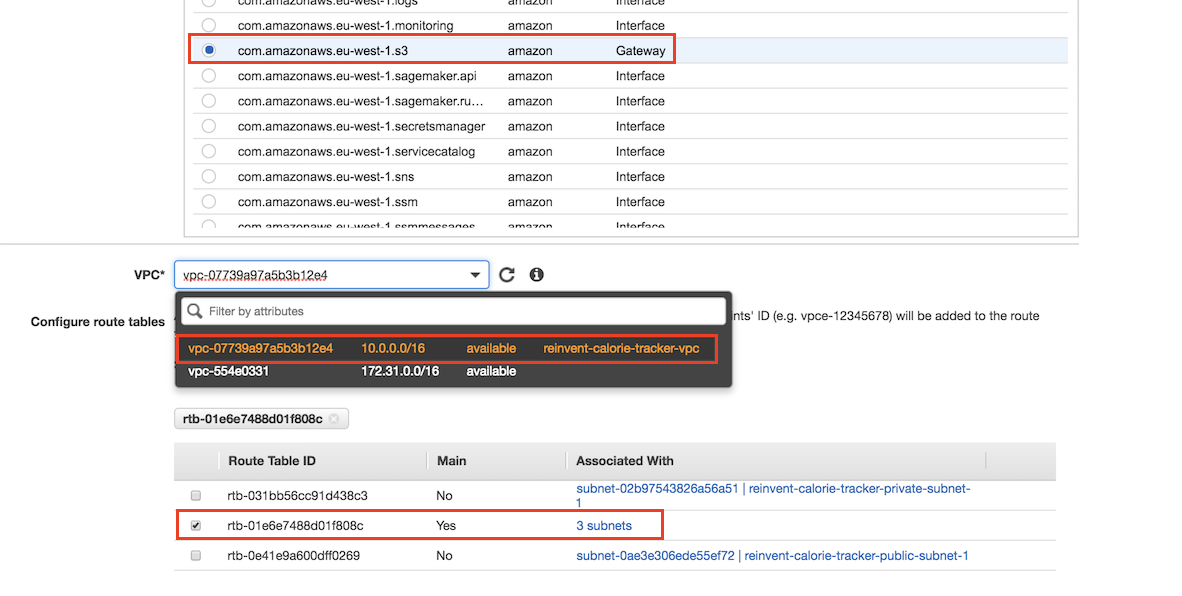
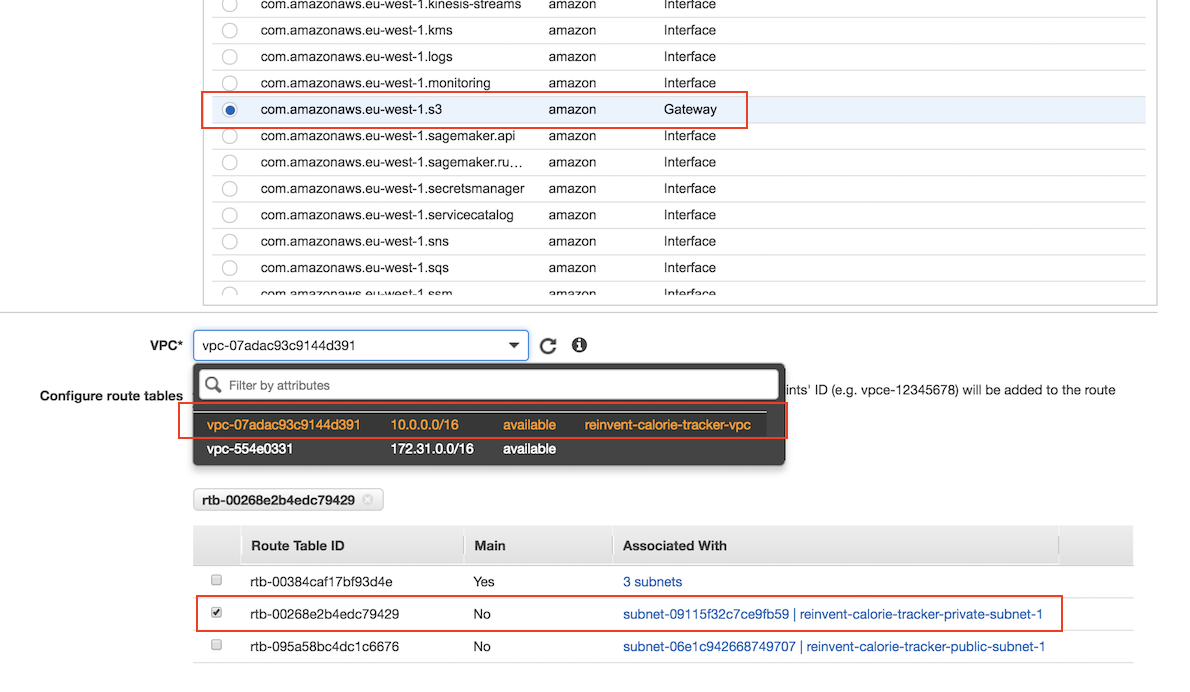
updating instructions

Changed region(s): [[0.0, 0.0, 0.9746, 0.9664]]

diff --git a/3_APPSYNC/README.md b/3_APPSYNC/README.md
@@ -17,7 +17,7 @@ Use the following link to deploy the stack.
 
 Region| Launch
 ------|-----
-eu-west-1 (Ireland) | [![Launch](../images/cloudformation-launch-stack-button.png)](https://eu-west-1.console.aws.amazon.com/cloudformation/home?region=eu-west-1#/stacks/new?stackName=reinvent-calorie-tracker-appsync&templateURL=https://s3-eu-west-1.amazonaws.com/reinvent-calorie-tracker-workshop/3_APPSYNC/templates/dynamodb-lambda.yaml)
+eu-west-1 (Ireland) | [![Launch](../images/cloudformation-launch-stack-button.png)](https://eu-west-1.console.aws.amazon.com/cloudformation/home?region=eu-west-1#/stacks/new?stackName=reinvent-calorie-tracker-module3&templateURL=https://s3-eu-west-1.amazonaws.com/reinvent-calorie-tracker-workshop/3_APPSYNC/templates/dynamodb-lambda.yaml)
 
 ![CFN](../images/image-appsync-cf-inputs.png)
 

diff --git a/0_NEPTUNE/README.md b/0_NEPTUNE/README.md
@@ -17,7 +17,7 @@ Use the following link to deploy the stack.
 
 Region| Launch
 ------|-----
-eu-west-1 (Ireland) | [![Launch](../images/cloudformation-launch-stack-button.png)](https://eu-west-1.console.aws.amazon.com/cloudformation/home?region=eu-west-1#/stacks/new?stackName=[reinvent-calorietracker-workshop]&templateURL=https://s3.eu-west-1.amazonaws.com/reinvent-calorie-tracker-workshop/0_NEPTUNE/templates/main.yaml)
+eu-west-1 (Ireland) | [![Launch](../images/cloudformation-launch-stack-button.png)](https://eu-west-1.console.aws.amazon.com/cloudformation/home?region=eu-west-1#/stacks/new?stackName=[reinvent-calorietracker-module0]&templateURL=https://s3.eu-west-1.amazonaws.com/reinvent-calorie-tracker-workshop/0_NEPTUNE/templates/main.yaml)
 
 ---
  #### Cloudformation Inputs:

diff --git a/2_LOAD_DATA/README.md b/2_LOAD_DATA/README.md
@@ -59,7 +59,7 @@ aws s3 cp 2_LOAD_DATA/datasets/ s3://YOUR_BUCKET_NAME_HERE/ --recursive
 
 5. Choose the VPC that contains your Neptune DB instance.
 
-6. Select the check box next to the route tables that are associated with the subnets related to your cluster. If you only have one route table, you must select that box.
+6. Select the route tables that are associated with the private subnet related to your cluster.
 
 ![VPCE](../images/image-VPCE.png)
 
